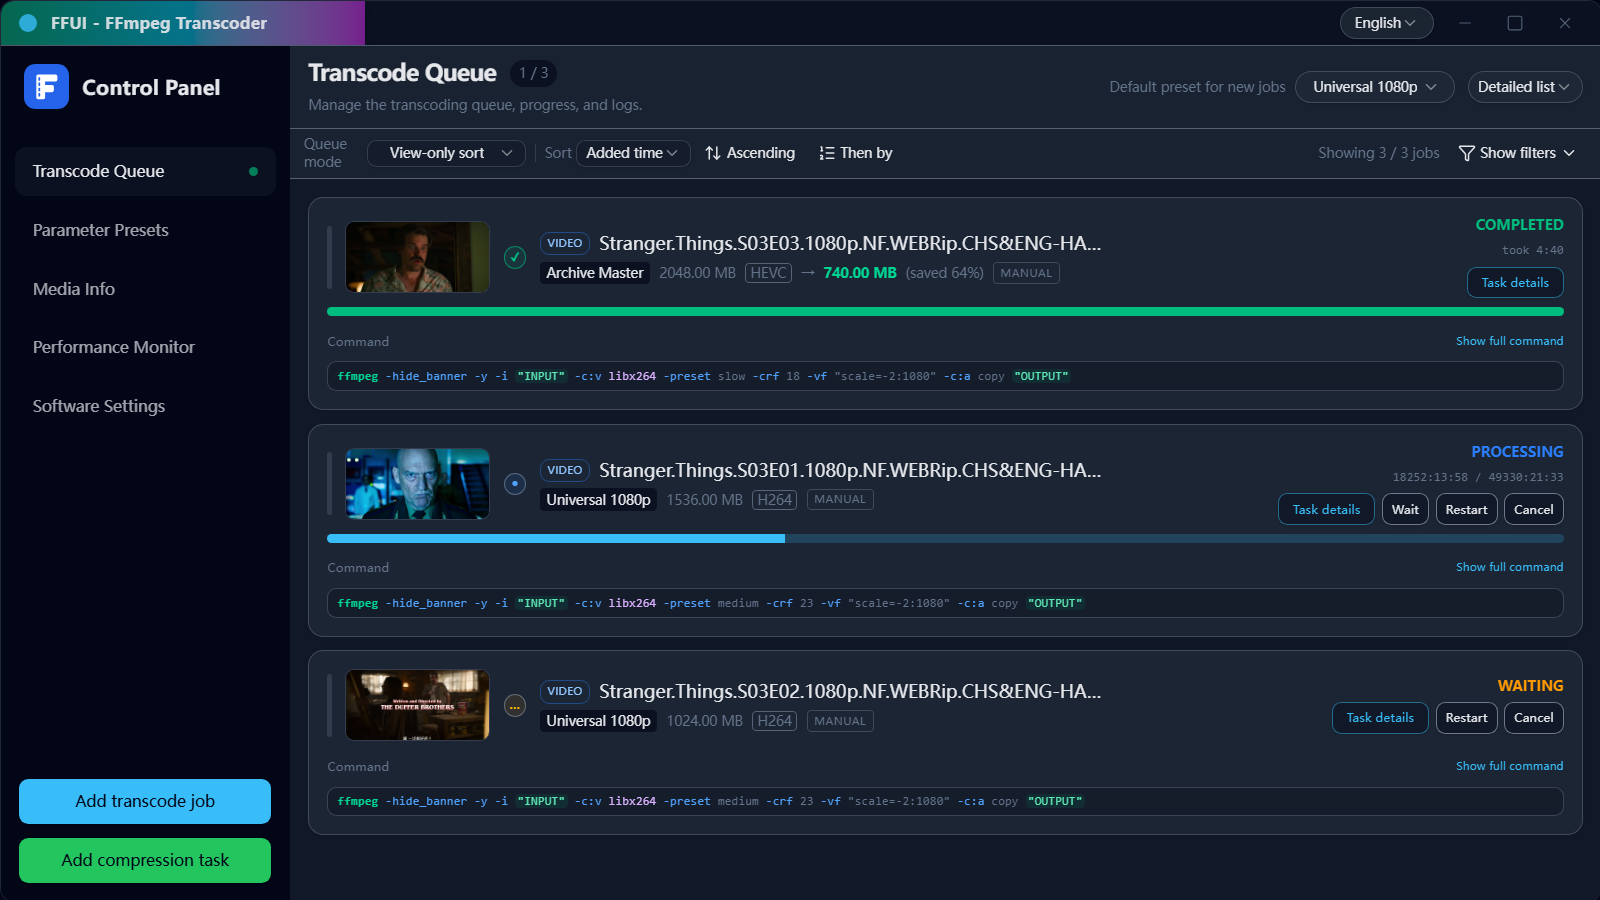
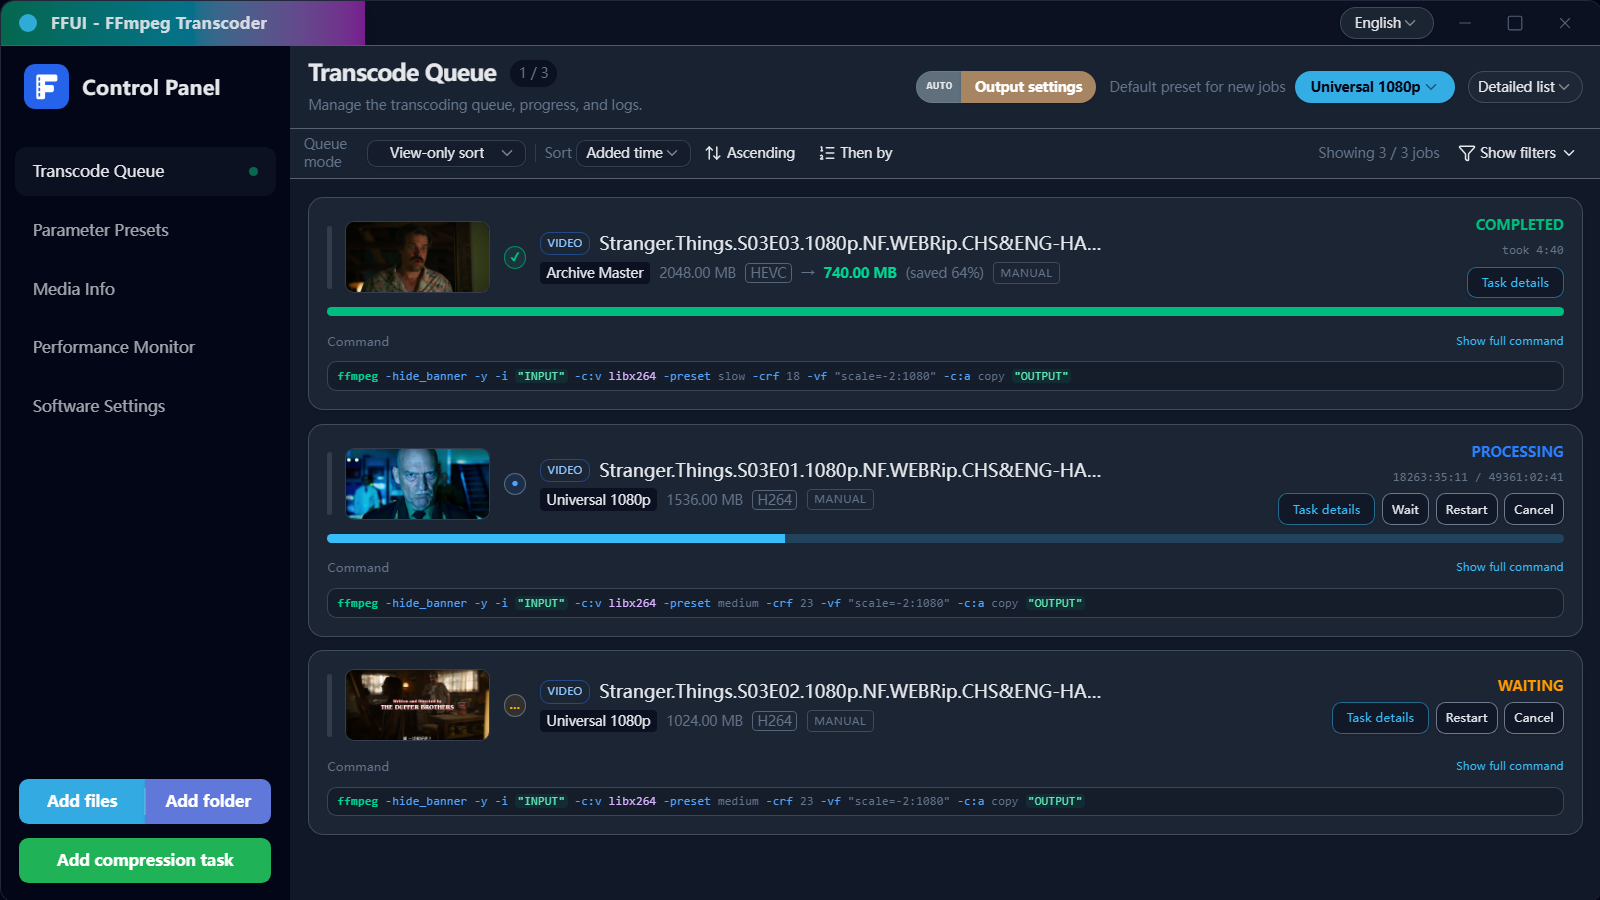
fix(docs-screenshots): align mocks with backend exports

Changed region(s): [[0.0312, 0.84, 0.1875, 0.9644], [0.5625, 0.0622, 0.6875, 0.1244], [0.8125, 0.0622, 0.9062, 0.1244]]

diff --git a/tools/docs-screenshots/mocks/backend.ts b/tools/docs-screenshots/mocks/backend.ts
@@ -7,12 +7,15 @@ import type {
   ExternalToolStatus,
   FFmpegPreset,
   GpuUsageSnapshot,
+  OutputPolicy,
   QueueStateLite,
+  QueueState,
   SmartScanConfig,
   SystemMetricsSnapshot,
   TranscodeActivityToday,
   TranscodeJob,
 } from "@/types";
+import { previewOutputPathLocal } from "@/lib/outputPolicyPreview";
 
 // The production app talks to a Tauri backend. For docs screenshots we replace
 // the backend module at build time (Vite alias) with this in-browser mock so
@@ -238,7 +241,7 @@ const makePresets = (): FFmpegPreset[] => {
       name: "Fast Preview",
       description: "x264 Veryfast CRF 28. Quick iterations.",
       video: { encoder: "libx264", rateControl: "crf", qualityValue: 28, preset: "veryfast" },
-      audio: { codec: "aac", bitrateKbps: 192 },
+      audio: { codec: "aac", bitrate: 192 },
       filters: { scale: "-2:1080" },
       stats: { usageCount: 76, totalInputSizeMB: 18_900, totalOutputSizeMB: 9_400, totalTimeSeconds: 1_250 },
     },
@@ -247,7 +250,7 @@ const makePresets = (): FFmpegPreset[] => {
       name: "Device Friendly",
       description: "H.264 baseline-ish settings for compatibility.",
       video: { encoder: "libx264", rateControl: "crf", qualityValue: 24, preset: "fast", profile: "baseline" },
-      audio: { codec: "aac", bitrateKbps: 160 },
+      audio: { codec: "aac", bitrate: 160 },
       filters: { scale: "-2:720" },
       stats: { usageCount: 19, totalInputSizeMB: 12_400, totalOutputSizeMB: 7_300, totalTimeSeconds: 980 },
     },
@@ -389,6 +392,10 @@ export const loadQueueStateLite = async (): Promise<QueueStateLite> => {
   return { jobs: buildQueueJobs() };
 };
 
+export const loadQueueState = async (): Promise<QueueState> => {
+  return { jobs: buildQueueJobs() };
+};
+
 export const loadPreviewDataUrl = async (_path: string): Promise<string> => {
   throw new Error("loadPreviewDataUrl is not implemented in docs screenshot mode");
 };
@@ -401,7 +408,113 @@ export const loadJobDetail = async (jobId: string): Promise<TranscodeJob | null>
   return (job as any) ?? null;
 };
 
-export const enqueueTranscodeJob = async (_inputPath: string, _presetId: string): Promise<boolean> => true;
+const normalizeStringArray = (value: unknown): string[] => {
+  if (!Array.isArray(value)) return [];
+  return value
+    .map((item) => (typeof item === "string" ? item.trim() : ""))
+    .filter((item) => item.length > 0);
+};
+
+const inferFilename = (value: string): string => {
+  const normalized = String(value ?? "").replace(/\\/g, "/");
+  const lastSlash = normalized.lastIndexOf("/");
+  return lastSlash >= 0 ? normalized.slice(lastSlash + 1) : normalized;
+};
+
+const makeEnqueuedJob = (params: {
+  filename: string;
+  presetId: string;
+  jobType?: string;
+  source?: string;
+  originalSizeMb?: number;
+  originalCodec?: string | undefined;
+}): TranscodeJob => {
+  const now = Date.now();
+  const id = `docs-enqueued-${now}-${Math.random().toString(16).slice(2, 8)}`;
+  const filename = params.filename.trim() || "input.mp4";
+  const outputPath = `C:/output/${filename.replace(/\.[^/.]+$/, "")}.out.mp4`;
+  return {
+    id,
+    filename,
+    type: (params.jobType as any) ?? "video",
+    source: (params.source as any) ?? "manual",
+    originalSizeMB: params.originalSizeMb ?? 0,
+    originalCodec: params.originalCodec,
+    presetId: params.presetId,
+    status: "waiting",
+    progress: 0,
+    inputPath: filename,
+    outputPath,
+    previewPath: undefined,
+    ffmpegCommand: `ffmpeg -hide_banner -y -i "${filename}" ... "${outputPath}"`,
+    logs: [],
+    estimatedSeconds: 60,
+  };
+};
+
+export const expandManualJobInputs = async (
+  paths: string[],
+  options?: { recursive?: boolean },
+): Promise<string[]> => {
+  const normalized = normalizeStringArray(paths);
+  if (normalized.length === 0) return [];
+  // In docs screenshot mode we don't touch the filesystem; return the inputs.
+  // (The production backend expands folders recursively.)
+  if (options?.recursive) return normalized;
+  return normalized;
+};
+
+export const enqueueTranscodeJob = async (
+  paramsOrPath: {
+    filename: string;
+    jobType: string;
+    source: string;
+    originalSizeMb: number;
+    originalCodec?: string;
+    presetId: string;
+  } | string,
+  maybePresetId?: string,
+): Promise<TranscodeJob> => {
+  if (typeof paramsOrPath === "string") {
+    const filename = inferFilename(paramsOrPath);
+    const presetId = String(maybePresetId ?? "p1");
+    return makeEnqueuedJob({ filename, presetId });
+  }
+
+  const presetId = String((paramsOrPath as any)?.presetId ?? "p1");
+  const filename = String((paramsOrPath as any)?.filename ?? "");
+  return makeEnqueuedJob({
+    filename: inferFilename(filename),
+    presetId,
+    jobType: (paramsOrPath as any)?.jobType,
+    source: (paramsOrPath as any)?.source,
+    originalSizeMb: Number((paramsOrPath as any)?.originalSizeMb ?? 0) || 0,
+    originalCodec: (paramsOrPath as any)?.originalCodec,
+  });
+};
+
+export const enqueueTranscodeJobs = async (params: {
+  filenames: string[];
+  jobType: string;
+  source: string;
+  originalSizeMb: number;
+  originalCodec?: string;
+  presetId: string;
+}): Promise<TranscodeJob[]> => {
+  const filenames = normalizeStringArray((params as any)?.filenames ?? (params as any)?.fileNames);
+  if (filenames.length === 0) return [];
+  const presetId = String((params as any)?.presetId ?? (params as any)?.preset_id ?? "p1");
+  return filenames.map((name) =>
+    makeEnqueuedJob({
+      filename: inferFilename(name),
+      presetId,
+      jobType: (params as any)?.jobType,
+      source: (params as any)?.source,
+      originalSizeMb: Number((params as any)?.originalSizeMb ?? 0) || 0,
+      originalCodec: (params as any)?.originalCodec,
+    }),
+  );
+};
 
 export const deleteTranscodeJob = async (_jobId: string): Promise<boolean> => true;
 export const cancelTranscodeJob = async (_jobId: string): Promise<boolean> => true;
@@ -412,6 +525,18 @@ export const restartTranscodeJob = async (_jobId: string): Promise<boolean> => t
 export const reorderQueue = async (_orderedJobIds: string[]): Promise<boolean> => true;
 
 export const deleteSmartScanBatchOnBackend = async (_batchId: string): Promise<boolean> => true;
+
+export const previewOutputPath = async (params: {
+  inputPath: string;
+  presetId?: string | null;
+  outputPolicy: OutputPolicy;
+}): Promise<string | null> => {
+  const inputPath = String(params?.inputPath ?? "").trim();
+  if (!inputPath) return null;
+  const policy = params?.outputPolicy;
+  if (!policy) return null;
+  return previewOutputPathLocal(inputPath, policy);
+};
 
 export const revealPathInFolder = async (_path: string): Promise<boolean> => true;
 
@@ -480,6 +605,30 @@ export const fetchMetricsHistory = async (): Promise<SystemMetricsSnapshot[]> =>
     });
   }
   return result;
+};
+
+export const loadSmartScanDefaults = async (): Promise<SmartScanConfig> => {
+  const settings = await loadAppSettings();
+  return settings.smartScanDefaults;
+};
+
+export const saveSmartScanDefaults = async (config: SmartScanConfig): Promise<SmartScanConfig> => {
+  const settings = await loadAppSettings();
+  appSettingsSnapshot = { ...settings, smartScanDefaults: config };
+  return config;
+};
+
+export const fetchExternalToolStatuses = async (): Promise<ExternalToolStatus[]> => {
+  return fetchExternalToolStatusesCached();
+};
+
+export const ensureOpenSourceFontDownloaded = async (_fontId: string): Promise<DownloadedFontInfo> => {
+  return {
+    id: "docs-font",
+    familyName: "FFUI Docs Font",
+    path: "C:/Windows/Fonts/ffui-docs-font.ttf",
+    format: "ttf",
+  } satisfies DownloadedFontInfo;
 };
 
 export const fetchTranscodeActivityToday = async (): Promise<TranscodeActivityToday> => {

diff --git a/tools/docs-screenshots/__tests__/backend-mock.spec.ts b/tools/docs-screenshots/__tests__/backend-mock.spec.ts
@@ -1,0 +1,37 @@
+import { describe, expect, it } from "vitest";
+
+import { DEFAULT_OUTPUT_POLICY } from "@/types/output-policy";
+
+import {
+  enqueueTranscodeJobs,
+  expandManualJobInputs,
+  previewOutputPath,
+} from "../mocks/backend";
+
+describe("docs screenshots backend mock", () => {
+  it("exports previewOutputPath compatible with OutputPolicyEditor", async () => {
+    const resolved = await previewOutputPath({
+      inputPath: "C:/videos/input.mp4",
+      presetId: null,
+      outputPolicy: DEFAULT_OUTPUT_POLICY,
+    });
+
+    expect(typeof resolved === "string" || resolved === null).toBe(true);
+    expect(resolved).toContain("input");
+  });
+
+  it("exports expandManualJobInputs and enqueueTranscodeJobs", async () => {
+    const expanded = await expandManualJobInputs(["  a.mp4  ", "", "b.mp4"], { recursive: true });
+    expect(expanded).toEqual(["a.mp4", "b.mp4"]);
+
+    const jobs = await enqueueTranscodeJobs({
+      filenames: expanded,
+      jobType: "video",
+      source: "manual",
+      originalSizeMb: 0,
+      presetId: "p1",
+    });
+    expect(jobs).toHaveLength(2);
+    expect(jobs[0]?.presetId).toBe("p1");
+  });
+});

diff --git a/tools/docs-screenshots/vite.config.screenshots.ts b/tools/docs-screenshots/vite.config.screenshots.ts
@@ -17,6 +17,7 @@ export default defineConfig(async (env: ConfigEnv): Promise<UserConfig> => {
   const aliasI18n = resolveFromRepo("tools/docs-screenshots/mocks/i18n.ts");
   const aliasTauriEvent = resolveFromRepo("tools/docs-screenshots/mocks/tauri-event.ts");
   const aliasTauriCore = resolveFromRepo("tools/docs-screenshots/mocks/tauri-core.ts");
+  const aliasTauriWindow = resolveFromRepo("tools/docs-screenshots/mocks/tauri-window.ts");
 
   const srcMainAbs = resolveFromRepo("src/main.ts");
   const srcDir = resolveFromRepo("src");
@@ -48,6 +49,7 @@ export default defineConfig(async (env: ConfigEnv): Promise<UserConfig> => {
         { find: "@/lib/backend", replacement: aliasBackend },
         { find: "@tauri-apps/api/event", replacement: aliasTauriEvent },
         { find: "@tauri-apps/api/core", replacement: aliasTauriCore },
+        { find: "@tauri-apps/api/window", replacement: aliasTauriWindow },
         // Keep the project's canonical "@/" path mapping, but avoid matching
         // scoped packages like "@tauri-apps/*".
         { find: /^@\//, replacement: `${srcDir}/` },

diff --git a/tools/docs-screenshots/mocks/tauri-window.ts b/tools/docs-screenshots/mocks/tauri-window.ts
@@ -1,0 +1,32 @@
+type UnlistenFn = () => void;
+
+class MockWindow {
+  label = "main";
+
+  async minimize(): Promise<void> {
+    // no-op (docs screenshot mode)
+  }
+
+  async toggleMaximize(): Promise<void> {
+    // no-op (docs screenshot mode)
+  }
+
+  async close(): Promise<void> {
+    // no-op (docs screenshot mode)
+  }
+
+  async listen(_event: string, _handler: unknown): Promise<UnlistenFn> {
+    // no-op (docs screenshot mode)
+    return () => {};
+  }
+}
+
+const sharedWindow = new MockWindow();
+
+export const getCurrentWindow = (): MockWindow => sharedWindow;
+
+// Some modules import the `Window` type/class from "@tauri-apps/api/window".
+// Export a compatible runtime symbol so those imports don't crash when the
+// docs screenshot Vite config aliases the module to this file.
+export class Window extends MockWindow {}
+

diff --git a/tools/docs-screenshots/__tests__/vite-aliases.spec.ts b/tools/docs-screenshots/__tests__/vite-aliases.spec.ts
@@ -1,0 +1,13 @@
+import { describe, expect, it } from "vitest";
+import { readFile } from "node:fs/promises";
+import path from "node:path";
+
+describe("docs screenshots Vite config", () => {
+  it("aliases @tauri-apps/api/window to a docs mock", async () => {
+    const configPath = path.join(process.cwd(), "tools", "docs-screenshots", "vite.config.screenshots.ts");
+    const source = await readFile(configPath, "utf8");
+
+    expect(source).toContain('find: "@tauri-apps/api/window"');
+    expect(source).toContain("mocks/tauri-window");
+  });
+});

diff --git a/vitest.config.ts b/vitest.config.ts
@@ -21,7 +21,10 @@ export default defineConfig({
     // need a DOM opt into jsdom via `// @vitest-environment jsdom` comments.
     environment: "node",
     globals: true,
-    include: ["src/**/*.{test,spec}.ts"],
+    include: [
+      "src/**/*.{test,spec}.ts",
+      "tools/docs-screenshots/__tests__/**/*.{test,spec}.ts",
+    ],
     // 允许有限并行（2-4 个 worker），在多数机器上可显著缩短整体耗时。
     maxWorkers: parallelWorkers,
     minWorkers: 1,
